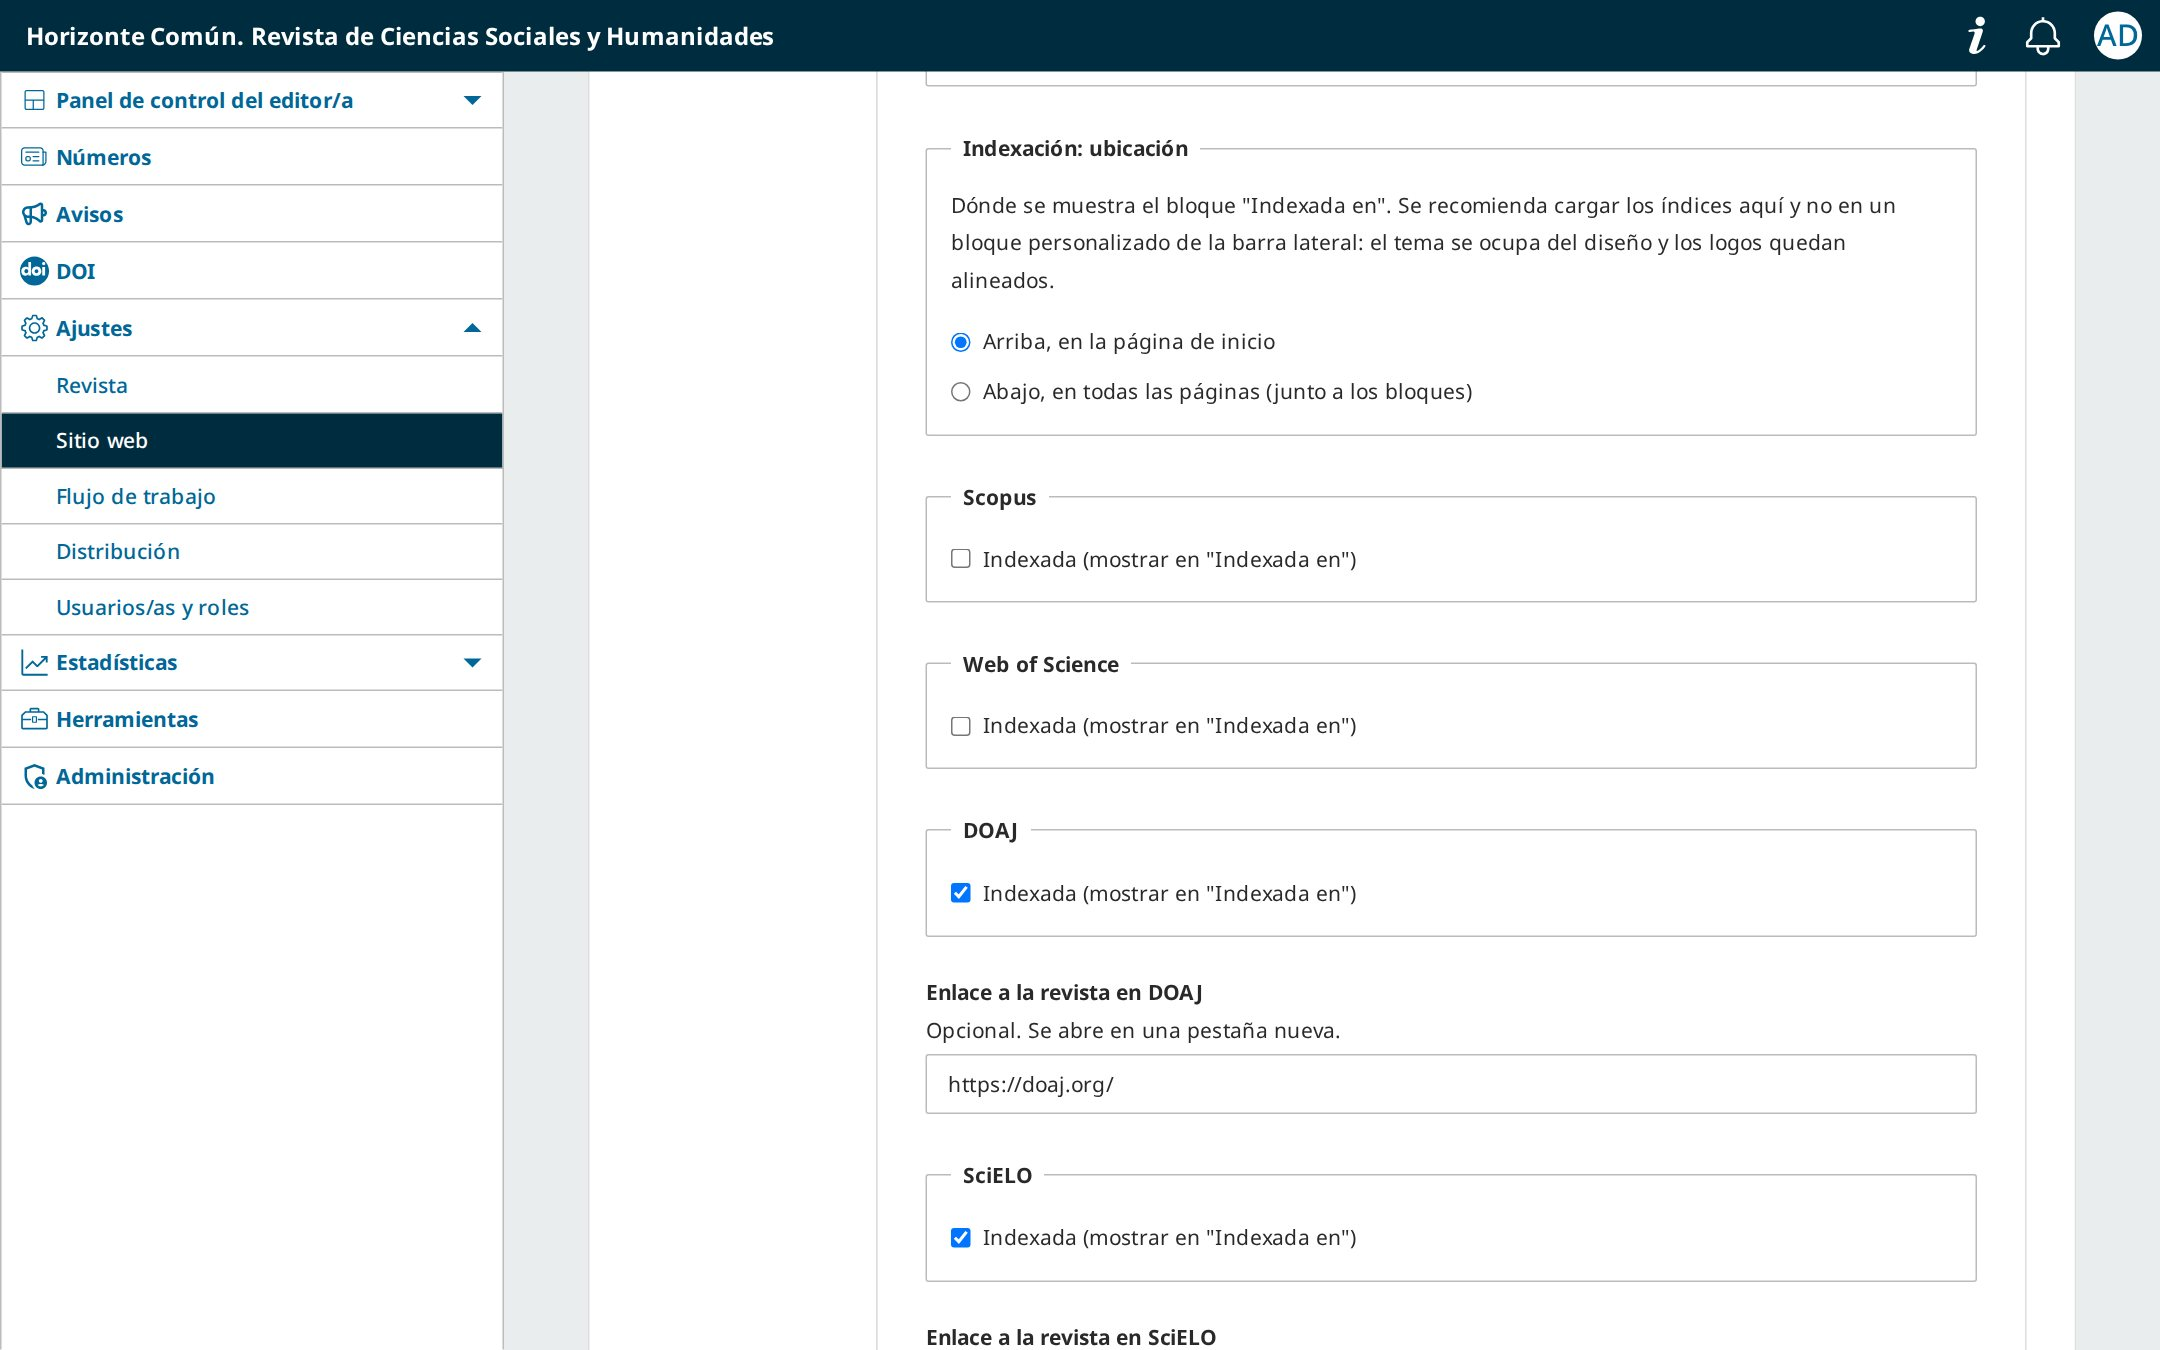
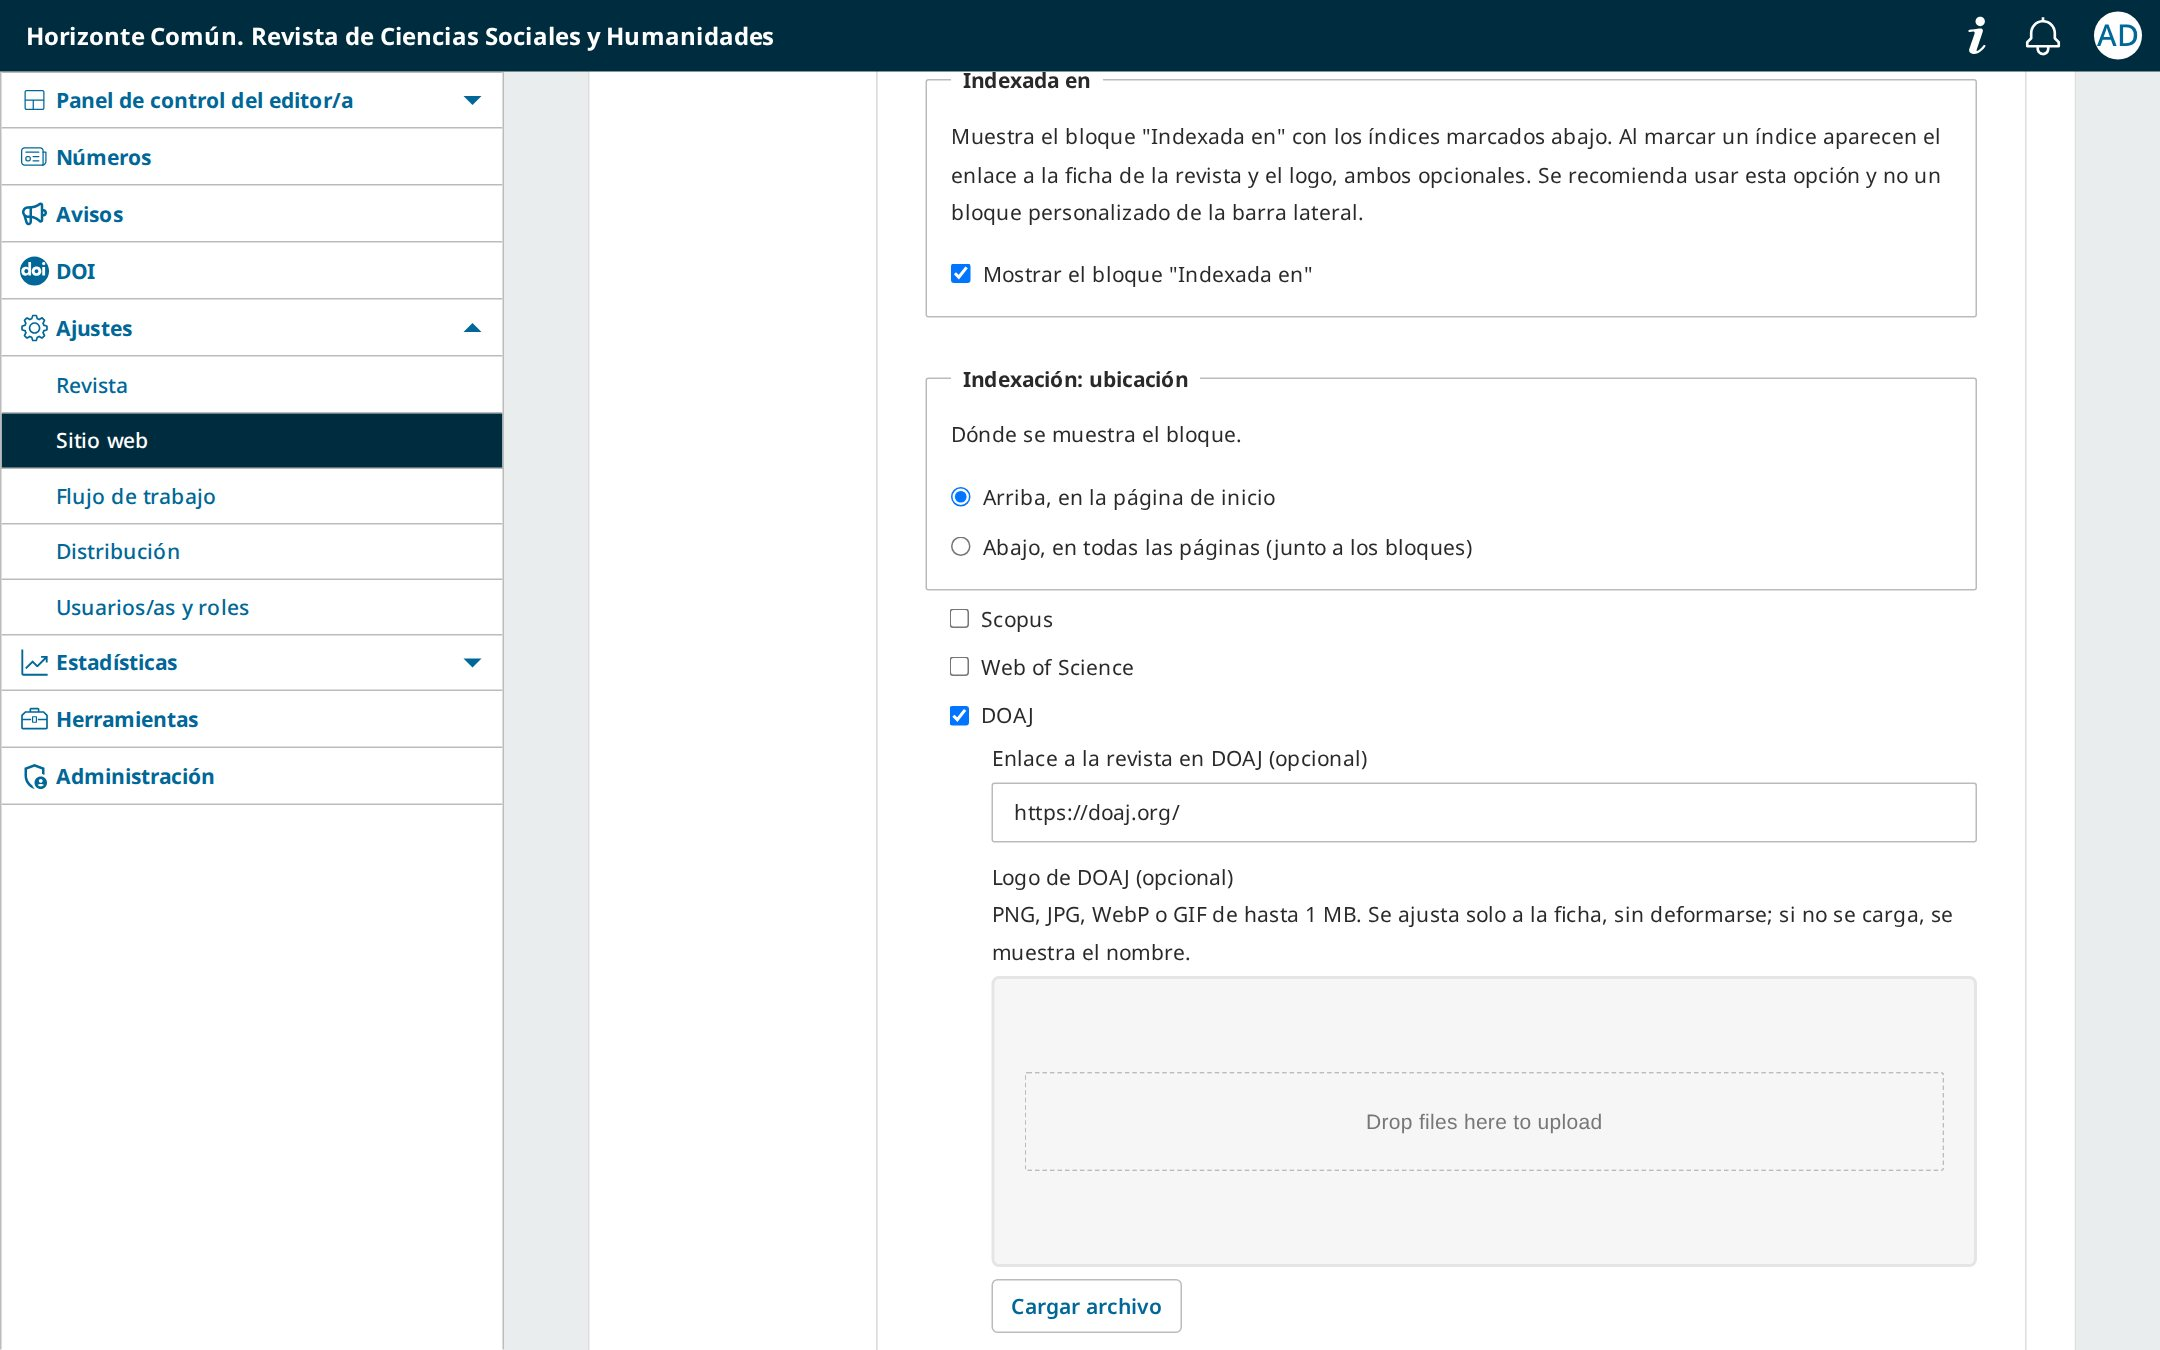
Primera versión pública: 1.0.0.0
- Plan de soporte: incluye la instalación de las actualizaciones,
  probadas en su OJS (las versiones son públicas y gratuitas).
- Captura de las opciones de indexación actualizada en la guía.
- version.xml en 1.0.0.0.

diff --git a/docs/index.html b/docs/index.html
@@ -136,7 +136,7 @@
 				</ul>
 				<p style="color:var(--muted);font-size:.92rem">Se recomienda usar esta opción y no un bloque personalizado en la barra lateral: el tema se ocupa del diseño y los logos quedan alineados.</p>
 			</div>
-			<figure class="shot"><img src="img/back-indexing.jpg" alt="Opciones de indexación: ubicación y lista de índices con casillas y enlaces" loading="lazy" width="2160" height="1350"><figcaption>Índices predefinidos con su enlace opcional.</figcaption></figure>
+			<figure class="shot"><img src="img/back-indexing.jpg" alt="Opciones de indexación: ubicación y lista de índices con casillas y enlaces" loading="lazy" width="2160" height="1350"><figcaption>Índices predefinidos con enlace y logo opcionales.</figcaption></figure>
 		</div>
 
 		<div class="row row--flip">
@@ -281,7 +281,7 @@
 				<h2>Plan anual de soporte</h2>
 				<p class="lead" style="margin:0">El tema es gratuito. Si su revista necesita acompañamiento, el plan anual incluye:</p>
 				<ul>
-					<li>Acceso a las versiones actualizadas del plugin.</li>
+					<li>Instalación de las actualizaciones, probadas en su OJS.</li>
 					<li>Soporte ante errores.</li>
 					<li>Asesoría de instalación y uso.</li>
 				</ul>

diff --git a/docs/pt/index.html b/docs/pt/index.html
@@ -136,7 +136,7 @@
 				</ul>
 				<p style="color:var(--muted);font-size:.92rem">Recomenda-se usar esta opção e não um bloco personalizado na barra lateral: o tema cuida do design e os logos ficam alinhados.</p>
 			</div>
-			<figure class="shot"><img src="../img/back-indexing.jpg" alt="Opções de indexação: posição e lista de indexadores com caixas e links" loading="lazy" width="2160" height="1350"><figcaption>Indexadores predefinidos com link opcional.</figcaption></figure>
+			<figure class="shot"><img src="../img/back-indexing.jpg" alt="Opções de indexação: posição e lista de indexadores com caixas e links" loading="lazy" width="2160" height="1350"><figcaption>Indexadores predefinidos com link e logo opcionais.</figcaption></figure>
 		</div>
 
 		<div class="row row--flip">
@@ -281,7 +281,7 @@
 				<h2>Plano anual de suporte</h2>
 				<p class="lead" style="margin:0">O tema é gratuito. Se a sua revista precisa de acompanhamento, o plano anual inclui:</p>
 				<ul>
-					<li>Acesso às versões atualizadas do plugin.</li>
+					<li>Instalação das atualizações, testadas no seu OJS.</li>
 					<li>Suporte para erros.</li>
 					<li>Assessoria de instalação e uso.</li>
 				</ul>

diff --git a/docs/id/index.html b/docs/id/index.html
@@ -136,7 +136,7 @@
 				</ul>
 				<p style="color:var(--muted);font-size:.92rem">Disarankan memakai opsi ini, bukan blok khusus di bilah samping: tema mengurus desain dan logo tetap sejajar.</p>
 			</div>
-			<figure class="shot"><img src="../img/back-indexing.jpg" alt="Opsi pengindeksan: posisi dan daftar pengindeks dengan kotak centang dan tautan" loading="lazy" width="2160" height="1350"><figcaption>Pengindeks bawaan dengan tautan opsional.</figcaption></figure>
+			<figure class="shot"><img src="../img/back-indexing.jpg" alt="Opsi pengindeksan: posisi dan daftar pengindeks dengan kotak centang dan tautan" loading="lazy" width="2160" height="1350"><figcaption>Pengindeks bawaan dengan tautan dan logo opsional.</figcaption></figure>
 		</div>
 
 		<div class="row row--flip">
@@ -281,7 +281,7 @@
 				<h2>Paket dukungan tahunan</h2>
 				<p class="lead" style="margin:0">Tema ini gratis. Jika jurnal Anda memerlukan pendampingan, paket tahunan mencakup:</p>
 				<ul>
-					<li>Akses ke versi plugin terbaru.</li>
+					<li>Pemasangan pembaruan yang sudah diuji di OJS Anda.</li>
 					<li>Bantuan untuk bug.</li>
 					<li>Konsultasi pemasangan dan penggunaan.</li>
 				</ul>

diff --git a/docs/en/index.html b/docs/en/index.html
@@ -136,7 +136,7 @@
 				</ul>
 				<p style="color:var(--muted);font-size:.92rem">Use this option rather than a custom sidebar block: the theme takes care of the design and keeps the logos aligned.</p>
 			</div>
-			<figure class="shot"><img src="../img/back-indexing.jpg" alt="Indexing options: position and list of indexes with checkboxes and links" loading="lazy" width="2160" height="1350"><figcaption>Predefined indexes with an optional link.</figcaption></figure>
+			<figure class="shot"><img src="../img/back-indexing.jpg" alt="Indexing options: position and list of indexes with checkboxes and links" loading="lazy" width="2160" height="1350"><figcaption>Predefined indexes with optional link and logo.</figcaption></figure>
 		</div>
 
 		<div class="row row--flip">
@@ -281,7 +281,7 @@
 				<h2>Annual support plan</h2>
 				<p class="lead" style="margin:0">The theme is free. If your journal needs a hand, the annual plan includes:</p>
 				<ul>
-					<li>Access to updated versions of the plugin.</li>
+					<li>Installation of updates, tested on your OJS.</li>
 					<li>Help with bugs.</li>
 					<li>Advice on installation and use.</li>
 				</ul>

diff --git a/docs/_build/strings.py b/docs/_build/strings.py
@@ -70,7 +70,7 @@ STRINGS['es'] = {
     'confIdx2': 'Para otros índices, cargue el logo y el enlace en <strong>Otros índices</strong>.',
     'confIdx3': 'Elija si el bloque va arriba en el inicio o abajo en todas las páginas.',
     'confIdxNote': 'Se recomienda usar esta opción y no un bloque personalizado en la barra lateral: el tema se ocupa del diseño y los logos quedan alineados.',
-    'altBackIdx': 'Opciones de indexación: ubicación y lista de índices con casillas y enlaces', 'capBackIdx': 'Índices predefinidos con su enlace opcional.',
+    'altBackIdx': 'Opciones de indexación: ubicación y lista de índices con casillas y enlaces', 'capBackIdx': 'Índices predefinidos con enlace y logo opcionales.',
     'confArtTitle': 'Artículo',
     'confArt1': '<strong>Texto completo HTML</strong> dentro de la página y su estilo (tipografía del tema o de la galerada).',
     'confArt2': '<strong>Parte de la galerada</strong> (avanzado): para omitir encabezados que la galerada repite.',
@@ -125,7 +125,7 @@ STRINGS['es'] = {
     'q7': '¿Envía datos a terceros?', 'a7': 'Las fuentes son locales y no hay scripts de terceros. Sólo si se activan: «Citado por» consulta OpenAlex desde el servidor (envía únicamente el DOI) y Crossmark carga el script de Crossref.',
     'planTitle': 'Plan anual de soporte',
     'planLead': 'El tema es gratuito. Si su revista necesita acompañamiento, el plan anual incluye:',
-    'plan1': 'Acceso a las versiones actualizadas del plugin.',
+    'plan1': 'Instalación de las actualizaciones, probadas en su OJS.',
     'plan2': 'Soporte ante errores.',
     'plan3': 'Asesoría de instalación y uso.',
     'planCta': 'Contratar el plan anual', 'planNote': 'También se puede contratar desde las opciones del tema, en el panel de OJS.',
@@ -192,7 +192,7 @@ STRINGS['en'] = {
     'confIdx2': 'For other indexes, add the logo and link under <strong>Other indexes</strong>.',
     'confIdx3': 'Choose whether the block goes at the top of the home page or at the bottom of every page.',
     'confIdxNote': 'Use this option rather than a custom sidebar block: the theme takes care of the design and keeps the logos aligned.',
-    'altBackIdx': 'Indexing options: position and list of indexes with checkboxes and links', 'capBackIdx': 'Predefined indexes with an optional link.',
+    'altBackIdx': 'Indexing options: position and list of indexes with checkboxes and links', 'capBackIdx': 'Predefined indexes with optional link and logo.',
     'confArtTitle': 'Article',
     'confArt1': '<strong>HTML full text</strong> inside the page and its style (theme typography or the galley\'s own).',
     'confArt2': '<strong>Galley section</strong> (advanced): to skip headings the galley repeats.',
@@ -247,7 +247,7 @@ STRINGS['en'] = {
     'q7': 'Does it send data to third parties?', 'a7': 'Fonts are local and there are no third-party scripts. Only when enabled: “Cited by” queries OpenAlex from the server (sending only the DOI) and Crossmark loads the Crossref script.',
     'planTitle': 'Annual support plan',
     'planLead': 'The theme is free. If your journal needs a hand, the annual plan includes:',
-    'plan1': 'Access to updated versions of the plugin.',
+    'plan1': 'Installation of updates, tested on your OJS.',
     'plan2': 'Help with bugs.',
     'plan3': 'Advice on installation and use.',
     'planCta': 'Get the annual plan', 'planNote': 'It is also linked from the theme options in the OJS dashboard.',
@@ -314,7 +314,7 @@ STRINGS['pt'] = {
     'confIdx2': 'Para outros indexadores, envie o logo e o link em <strong>Outros indexadores</strong>.',
     'confIdx3': 'Escolha se o bloco fica no topo da página inicial ou embaixo em todas as páginas.',
     'confIdxNote': 'Recomenda-se usar esta opção e não um bloco personalizado na barra lateral: o tema cuida do design e os logos ficam alinhados.',
-    'altBackIdx': 'Opções de indexação: posição e lista de indexadores com caixas e links', 'capBackIdx': 'Indexadores predefinidos com link opcional.',
+    'altBackIdx': 'Opções de indexação: posição e lista de indexadores com caixas e links', 'capBackIdx': 'Indexadores predefinidos com link e logo opcionais.',
     'confArtTitle': 'Artigo',
     'confArt1': '<strong>Texto completo HTML</strong> dentro da página e seu estilo (tipografia do tema ou da composição).',
     'confArt2': '<strong>Parte da composição</strong> (avançado): para omitir cabeçalhos que a composição repete.',
@@ -369,7 +369,7 @@ STRINGS['pt'] = {
     'q7': 'Envia dados a terceiros?', 'a7': 'As fontes são locais e não há scripts de terceiros. Só se forem ativados: «Citado por» consulta o OpenAlex pelo servidor (envia apenas o DOI) e o Crossmark carrega o script da Crossref.',
     'planTitle': 'Plano anual de suporte',
     'planLead': 'O tema é gratuito. Se a sua revista precisa de acompanhamento, o plano anual inclui:',
-    'plan1': 'Acesso às versões atualizadas do plugin.',
+    'plan1': 'Instalação das atualizações, testadas no seu OJS.',
     'plan2': 'Suporte para erros.',
     'plan3': 'Assessoria de instalação e uso.',
     'planCta': 'Contratar o plano anual', 'planNote': 'Também está disponível nas opções do tema, no painel do OJS.',
@@ -436,7 +436,7 @@ STRINGS['id'] = {
     'confIdx2': 'Untuk pengindeks lain, tambahkan logo dan tautan di <strong>Pengindeks lain</strong>.',
     'confIdx3': 'Pilih apakah blok berada di atas beranda atau di bawah setiap halaman.',
     'confIdxNote': 'Disarankan memakai opsi ini, bukan blok khusus di bilah samping: tema mengurus desain dan logo tetap sejajar.',
-    'altBackIdx': 'Opsi pengindeksan: posisi dan daftar pengindeks dengan kotak centang dan tautan', 'capBackIdx': 'Pengindeks bawaan dengan tautan opsional.',
+    'altBackIdx': 'Opsi pengindeksan: posisi dan daftar pengindeks dengan kotak centang dan tautan', 'capBackIdx': 'Pengindeks bawaan dengan tautan dan logo opsional.',
     'confArtTitle': 'Artikel',
     'confArt1': '<strong>Teks lengkap HTML</strong> di dalam halaman dan gayanya (tipografi tema atau milik galai).',
     'confArt2': '<strong>Bagian galai</strong> (lanjutan): untuk melewati judul yang diulang oleh galai.',
@@ -491,7 +491,7 @@ STRINGS['id'] = {
     'q7': 'Apakah mengirim data ke pihak ketiga?', 'a7': 'Font bersifat lokal dan tidak ada skrip pihak ketiga. Hanya jika diaktifkan: “Dikutip oleh” menghubungi OpenAlex dari server (hanya mengirim DOI) dan Crossmark memuat skrip Crossref.',
     'planTitle': 'Paket dukungan tahunan',
     'planLead': 'Tema ini gratis. Jika jurnal Anda memerlukan pendampingan, paket tahunan mencakup:',
-    'plan1': 'Akses ke versi plugin terbaru.',
+    'plan1': 'Pemasangan pembaruan yang sudah diuji di OJS Anda.',
     'plan2': 'Bantuan untuk bug.',
     'plan3': 'Konsultasi pemasangan dan penggunaan.',
     'planCta': 'Berlangganan paket tahunan', 'planNote': 'Tautannya juga tersedia di opsi tema, di dasbor OJS.',

diff --git a/PaideiaThemePlugin.php b/PaideiaThemePlugin.php
@@ -229,7 +229,7 @@ class PaideiaThemePlugin extends ThemePlugin
     }
 
     /**
-     * Antes de 1.0.1 no existía el interruptor de indexación: si la revista
+     * En versiones de prueba anteriores no existía el interruptor de indexación: si la revista
      * ya tenía índices marcados o logos propios, arranca encendido.
      */
     protected function hasLegacyIndexing(): bool

diff --git a/classes/HomeData.php b/classes/HomeData.php
@@ -285,7 +285,7 @@ class HomeData
     }
 
     /**
-     * Hasta 1.0.3 la caché eran archivos cache/pdt-*.json que no se borraban
+     * En versiones de prueba anteriores la caché eran archivos cache/pdt-*.json que no se borraban
      * con "Borrar caché de datos". Se eliminan una vez.
      */
     protected static function removeLegacyCache(): void

diff --git a/README.md b/README.md
@@ -2,7 +2,7 @@
 
 Tema gratuito (GPL v3) para Open Journal Systems con la estética y las funciones de las revistas científicas actuales: página de artículo de revista indexada, texto completo HTML dentro de la página, metadatos SEO completos y modo oscuro. Es un *child theme* del tema Default de OJS.
 
-Desarrollado por [Paideia Studio](https://paideiastudio.net/). El tema es libre. El [plan anual de soporte](https://shop.paideiahosting.net/shop/paideia-theme-annual-support-210) incluye acceso a las versiones actualizadas del plugin, soporte ante errores y asesoría de instalación y uso. Otras consultas: **contact [at] paideiastudio.net**.
+Desarrollado por [Paideia Studio](https://paideiastudio.net/). El tema es libre. El [plan anual de soporte](https://shop.paideiahosting.net/shop/paideia-theme-annual-support-210) incluye la instalación de las actualizaciones, probadas en su OJS, soporte ante errores y asesoría de instalación y uso. Otras consultas: **contact [at] paideiastudio.net**.
 
 Demo en vivo (OJS 3.5): **https://ojs35.paideiastudio.com.ar/index.php/demoestilos/**
 
